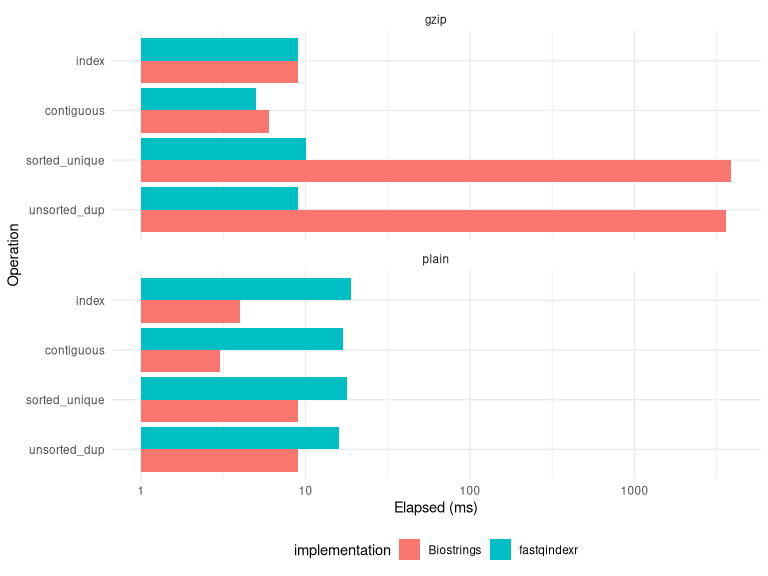
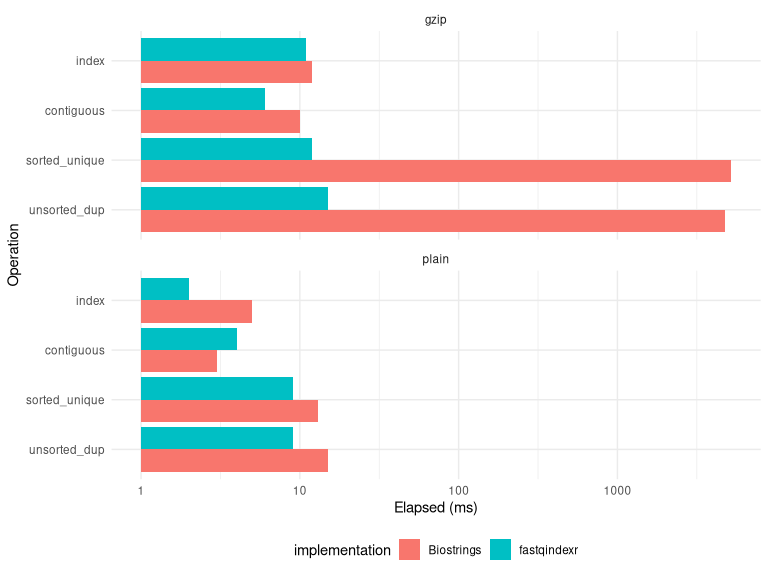
optimize plain-file record extraction

diff --git a/src/fastqindexr.cpp b/src/fastqindexr.cpp
@@ -1205,21 +1205,91 @@ ParsedRecord readOneRecordFromPlainStream(
   };
 }
 
-ParsedRecord readPlainRecordAtOffset(
-  const std::string& path,
-  std::uint64_t byte_offset,
+class PlainIndexedRecordReader {
+ public:
+  explicit PlainIndexedRecordReader(const std::string& path)
+    : path_(path), stream_(path, std::ios::binary) {
+    if (!stream_.good()) {
+      throw std::runtime_error("Could not open plain input: " + path_);
+    }
+  }
+
+  void seekTo(std::uint64_t byte_offset) {
+    stream_.clear();
+    stream_.seekg(static_cast<std::streamoff>(byte_offset), std::ios::beg);
+    if (!stream_.good()) {
+      throw std::runtime_error("Could not seek plain input: " + path_);
+    }
+  }
+
+  ParsedRecord readOne(const std::string& type, bool include_qual) {
+    return readOneRecordFromPlainStream(&stream_, type, include_qual);
+  }
+
+ private:
+  std::string path_;
+  std::ifstream stream_;
+};
+
+template <typename EmitFn>
+void extractPlainIndexedRecords(
+  const std::string& file,
+  const std::vector<std::uint64_t>& local_ids,
+  const std::vector<std::uint64_t>& header_offsets,
   const std::string& type,
-  bool include_qual
+  bool include_qual,
+  std::uint64_t max_bridge_gap,
+  std::uint64_t max_region_records,
+  int record_size,
+  const EmitFn& emit
+  #ifdef FASTQINDEXR_TIMING
+  ,
+  ExtractionDiagnostics* diag
+  #endif
 ) {
-  std::ifstream in(path, std::ios::binary);
-  if (!in.good()) {
-    throw std::runtime_error("Could not open plain input: " + path);
+  if (local_ids.empty()) {
+    return;
   }
-  in.seekg(static_cast<std::streamoff>(byte_offset), std::ios::beg);
-  if (!in.good()) {
-    throw std::runtime_error("Could not seek plain input: " + path);
+  for (auto lid : local_ids) {
+    if (lid >= header_offsets.size()) {
+      throw std::runtime_error("Requested id out of range for plain indexed file.");
+    }
   }
-  return readOneRecordFromPlainStream(&in, type, include_qual);
+
+  PlainIndexedRecordReader reader(file);
+  const auto regions = buildDenseRegionsFromSortedUnique(
+    local_ids,
+    max_bridge_gap,
+    max_region_records,
+    record_size
+    #ifdef FASTQINDEXR_TIMING
+    ,
+    diag
+    #endif
+  );
+
+  for (const auto& rg : regions) {
+    const std::uint64_t region_start = rg.first;
+    const std::uint64_t region_end = rg.second;
+    const auto region_begin = std::lower_bound(local_ids.begin(), local_ids.end(), region_start);
+    const auto region_end_it = std::upper_bound(local_ids.begin(), local_ids.end(), region_end);
+    const std::uint64_t requested_in_region = static_cast<std::uint64_t>(region_end_it - region_begin);
+    const std::uint64_t region_span = region_end - region_start + 1;
+    const bool dense_region = (requested_in_region == region_span);
+
+    if (dense_region) {
+      reader.seekTo(header_offsets[static_cast<size_t>(region_start)]);
+      for (std::uint64_t lid = region_start; lid <= region_end; ++lid) {
+        emit(lid, reader.readOne(type, include_qual));
+      }
+    } else {
+      for (auto it = region_begin; it != region_end_it; ++it) {
+        const std::uint64_t lid = *it;
+        reader.seekTo(header_offsets[static_cast<size_t>(lid)]);
+        emit(lid, reader.readOne(type, include_qual));
+      }
+    }
+  }
 }
 
 std::unique_ptr<PlainIndexedFile> buildPlainFileIndex(const std::string& path, int record_size) {
@@ -1229,21 +1299,31 @@ std::unique_ptr<PlainIndexedFile> buildPlainFileIndex(const std::string& path, i
     throw std::runtime_error("Could not open plain input for indexing: " + path);
   }
   std::uint64_t line_index = 0;
-  std::string line;
+  std::uint64_t file_offset = 0;
+  bool at_line_start = true;
+  std::vector<char> buffer(kGzBufferSize * 8, '\0');
   while (true) {
-    const std::streampos line_start = in.tellg();
-    if (!std::getline(in, line)) {
+    in.read(buffer.data(), static_cast<std::streamsize>(buffer.size()));
+    const std::streamsize n_read_s = in.gcount();
+    if (n_read_s <= 0) {
       break;
     }
-    if (line_index % static_cast<std::uint64_t>(record_size) == 0) {
-      if (line_start < 0) {
-        throw std::runtime_error("Could not track byte position in plain file: " + path);
+    const std::size_t n_read = static_cast<std::size_t>(n_read_s);
+    for (std::size_t i = 0; i < n_read; ++i) {
+      if (at_line_start) {
+        if (line_index % static_cast<std::uint64_t>(record_size) == 0) {
+          out->plain_header_byte_offsets.push_back(file_offset + static_cast<std::uint64_t>(i));
+        }
+        at_line_start = false;
       }
-      out->plain_header_byte_offsets.push_back(static_cast<std::uint64_t>(line_start));
+      if (buffer[i] == '\n') {
+        line_index++;
+        at_line_start = true;
+      }
     }
-    if (!line.empty() && line.back() == '\r') {
-      line.pop_back();
-    }
+    file_offset += static_cast<std::uint64_t>(n_read);
+  }
+  if (!at_line_start) {
     line_index++;
   }
   if (line_index % static_cast<std::uint64_t>(record_size) != 0) {
@@ -1324,18 +1404,23 @@ SelectedRecordMap collectRequestedRecords(
     }
     if (isPlainIndexedFile(*bundle.indexed_files[file_idx]) && mode == ExtractExecutionMode::Indexed) {
       const auto& offs = asPlainIndexedFile(*bundle.indexed_files[file_idx]).plain_header_byte_offsets;
-      for (auto lid : local_ids) {
-        if (lid >= offs.size()) {
-          throw std::runtime_error("Requested id out of range for plain indexed file.");
+      extractPlainIndexedRecords(
+        Rcpp::as<std::string>(files[file_idx]),
+        local_ids,
+        offs,
+        bundle.format,
+        need_qual,
+        max_bridge_gap,
+        max_region_records,
+        bundle.record_size,
+        [&](std::uint64_t lid, const ParsedRecord& rec) {
+          selected_global[bundle.record_offsets[file_idx] + lid] = rec;
         }
-        ParsedRecord rec = readPlainRecordAtOffset(
-          Rcpp::as<std::string>(files[file_idx]),
-          offs[static_cast<size_t>(lid)],
-          bundle.format,
-          need_qual
-        );
-        selected_global[bundle.record_offsets[file_idx] + lid] = std::move(rec);
-      }
+        #ifdef FASTQINDEXR_TIMING
+        ,
+        diag
+        #endif
+      );
       continue;
     }
     #ifdef FASTQINDEXR_TIMING
@@ -1666,19 +1751,24 @@ double streamSortedUniqueToFile(
     }
     if (isPlainIndexedFile(*bundle.indexed_files[file_idx]) && mode == ExtractExecutionMode::Indexed) {
       const auto& offs = asPlainIndexedFile(*bundle.indexed_files[file_idx]).plain_header_byte_offsets;
-      for (auto lid : local_ids) {
-        if (lid >= offs.size()) {
-          throw std::runtime_error("Requested id out of range for plain indexed file.");
+      extractPlainIndexedRecords(
+        Rcpp::as<std::string>(files[file_idx]),
+        local_ids,
+        offs,
+        bundle.format,
+        need_qual,
+        max_bridge_gap,
+        max_region_records,
+        bundle.record_size,
+        [&](std::uint64_t, const ParsedRecord& rec) {
+          writer->write(renderRecord(rec, resolved_output_type));
+          n_written++;
         }
-        ParsedRecord rec = readPlainRecordAtOffset(
-          Rcpp::as<std::string>(files[file_idx]),
-          offs[static_cast<size_t>(lid)],
-          bundle.format,
-          need_qual
-        );
-        writer->write(renderRecord(rec, resolved_output_type));
-        n_written++;
-      }
+        #ifdef FASTQINDEXR_TIMING
+        ,
+        diag
+        #endif
+      );
       continue;
     }
     #ifdef FASTQINDEXR_TIMING
@@ -2060,27 +2150,32 @@ SEXP buildDNAStringSetFromRequested(
       }
       if (isPlainIndexedFile(*bundle.indexed_files[file_idx]) && mode == ExtractExecutionMode::Indexed) {
         const auto& offs = asPlainIndexedFile(*bundle.indexed_files[file_idx]).plain_header_byte_offsets;
-        for (auto lid : local_ids) {
-          if (lid >= offs.size()) {
-            throw std::runtime_error("Requested id out of range for plain indexed file.");
+        extractPlainIndexedRecords(
+          Rcpp::as<std::string>(files[file_idx]),
+          local_ids,
+          offs,
+          bundle.format,
+          false,
+          max_bridge_gap,
+          max_region_records,
+          bundle.record_size,
+          [&](std::uint64_t, const ParsedRecord& rec) {
+            appendRecordToDNAChunks(
+              rec,
+              chunk_chars_limit,
+              &seq_chunk,
+              &id_chunk,
+              &chunk_chars,
+              &output_index,
+              &dna_chunks,
+              renumber_mode
+            );
           }
-          ParsedRecord rec = readPlainRecordAtOffset(
-            Rcpp::as<std::string>(files[file_idx]),
-            offs[static_cast<size_t>(lid)],
-            bundle.format,
-            false
-          );
-          appendRecordToDNAChunks(
-            rec,
-            chunk_chars_limit,
-            &seq_chunk,
-            &id_chunk,
-            &chunk_chars,
-            &output_index,
-            &dna_chunks,
-            renumber_mode
-          );
-        }
+          #ifdef FASTQINDEXR_TIMING
+          ,
+          diag
+          #endif
+        );
         continue;
       }
       #ifdef FASTQINDEXR_TIMING

diff --git a/README.md b/README.md
@@ -85,22 +85,38 @@ unlink(c(path, out))
 
 ## Benchmarking
 
-The script below loops over compression mode (`gzip` / `plain`), request
-pattern, and operation (`index` / `extract`), captures results in a data
-frame, and plots average timings.
+The [`Biostrings` package from
+Bioconductor](https://bioconductor.org/packages/Biostrings/) also
+provides an implementation of FASTA indexing and extraction via its
+`fasta.index()` function. The indexes produced by `fasta.index()` can be
+subset and supplied as the `file` argument to `readDNAStringSet()` (or
+the equivalent B/RNA/AA versions) to read arbitrary subsets of
+sequences. The `fasta.index()` indexes include more details about the
+sequences, including sequence names and lengths, which may be useful for
+some applications. However, the `readXStringSet()` functions cannot seek
+inside gzipped files, and so they are very slow at random-access
+extraction from gzipped files.
+
+Here is a benchmark comparing the two implementations, for different
+access patterns and compression modes.
 
 ``` r
 # Install Biostrings if not already installed.
 # install.packages("BiocManager")
 # BiocManager::install("Biostrings")
+library(Biostrings)
+library(fastqindexr)
 
 set.seed(1)
 n_records <- 10000L
 n_extract <- 2000L
 
-# three different request patterns in increasing order of difficulty:
-# contiguous range, sorted non-contiguous unique, and unsorted non-contiguous
-# with duplicates.
+# Three different request patterns in increasing order of difficulty:
+# 1) A contiguous range of 2000 records, but not at the beginning;
+# 2) 2000 unique records, randomly scattered through the file but in increasing
+#    order;
+# 3) 2000 randomly selected records, including potential duplicates, in
+#    arbitrary order.
 
 requests <- list(
   contiguous = (n_records %/% 2) + seq_len(n_extract),
@@ -124,6 +140,7 @@ for (comp in c("gzip", "plain")) {
   }
   tmp <- tempfile(fileext = fileext)
   make_benchmark_fasta(tmp, n = n_records, width = 120)
+  
   # loop over implementations (fastqindexr / Biostrings)
   for (impl in c("fastqindexr", "Biostrings")) {
     index_time <- system.time(
@@ -170,22 +187,22 @@ for (comp in c("gzip", "plain")) {
 
 benchmarks
 #>    compression implementation     operation elapsed
-#> 1         gzip    fastqindexr         index   0.009
+#> 1         gzip    fastqindexr         index   0.011
 #> 2         gzip    fastqindexr    contiguous   0.006
-#> 3         gzip    fastqindexr sorted_unique   0.009
-#> 4         gzip    fastqindexr  unsorted_dup   0.009
-#> 5         gzip     Biostrings         index   0.009
-#> 6         gzip     Biostrings    contiguous   0.006
-#> 7         gzip     Biostrings sorted_unique   3.849
-#> 8         gzip     Biostrings  unsorted_dup   3.545
-#> 9        plain    fastqindexr         index   0.020
-#> 10       plain    fastqindexr    contiguous   0.017
-#> 11       plain    fastqindexr sorted_unique   0.017
-#> 12       plain    fastqindexr  unsorted_dup   0.016
-#> 13       plain     Biostrings         index   0.004
+#> 3         gzip    fastqindexr sorted_unique   0.012
+#> 4         gzip    fastqindexr  unsorted_dup   0.015
+#> 5         gzip     Biostrings         index   0.012
+#> 6         gzip     Biostrings    contiguous   0.010
+#> 7         gzip     Biostrings sorted_unique   5.205
+#> 8         gzip     Biostrings  unsorted_dup   4.765
+#> 9        plain    fastqindexr         index   0.002
+#> 10       plain    fastqindexr    contiguous   0.004
+#> 11       plain    fastqindexr sorted_unique   0.009
+#> 12       plain    fastqindexr  unsorted_dup   0.009
+#> 13       plain     Biostrings         index   0.005
 #> 14       plain     Biostrings    contiguous   0.003
-#> 15       plain     Biostrings sorted_unique   0.008
-#> 16       plain     Biostrings  unsorted_dup   0.008
+#> 15       plain     Biostrings sorted_unique   0.013
+#> 16       plain     Biostrings  unsorted_dup   0.015
 ```
 
 Although `fastqindexr` supports extracting from both gzipped and plain